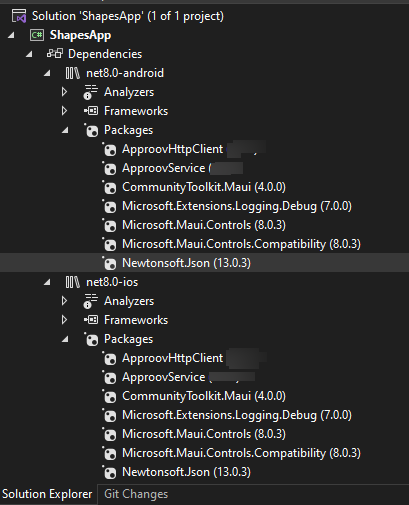
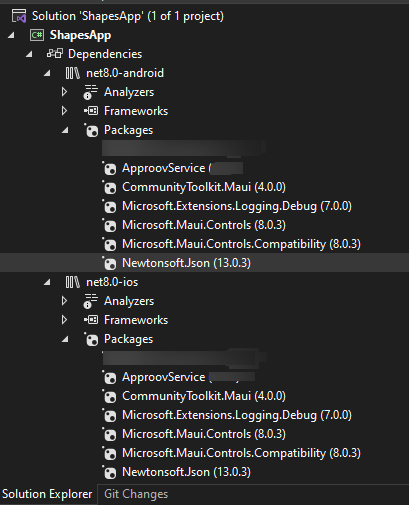
Update package instructions to support NET7 also

Changed region(s): [[0.2347, 0.2673, 0.5575, 0.3267], [0.2347, 0.6832, 0.5575, 0.7426]]

diff --git a/SHAPES-EXAMPLE.md b/SHAPES-EXAMPLE.md
@@ -1,6 +1,6 @@
 # SHAPES EXAMPLE
 
-This quickstart is written specifically for native iOS and Android apps that are written in C# for making the API calls that you wish to protect with Approov. This quickstart provides a step-by-step example of integrating Approov into an app using a simple `Shapes` example that shows a geometric shape based on a request to an API backend that can be protected with Approov.
+This quickstart is written specifically for iOS and Android apps using .NET MAUI for making the API calls that you wish to protect with Approov. This quickstart provides a step-by-step example of integrating Approov into an app using a simple `Shapes` example that shows a geometric shape based on a request to an API backend that can be protected with Approov. Please note that this example uses NET8 but the `ApproovService` package as of version `3.2.0` supports also NET7.
 
 ## WHAT YOU WILL NEED
 * Access to a trial or paid Approov account
@@ -9,7 +9,7 @@ This quickstart is written specifically for native iOS and Android apps that are
 * Mac OS machine with a recent version of Xcode and Mac OS to be accessed from Visual Studio using the `Pair To Mac` function if building iOS ShapesApp
 * The contents of the folder containing this README
 * An Apple mobile device with iOS 11 or higher or an Android 5.0+ device. Alternatively, iOS simulator or Android emulator would suffice
-* Nuget packages supporting the native Approov SDK: `ApproovService` version `3.2.0`, `ApproovHttpClient` version `3.2.0`
+* Nuget package supporting the native Approov SDK: `ApproovService` version `3.2.0`
 
 ## RUNNING THE SHAPES APP WITHOUT APPROOV
 
@@ -39,7 +39,7 @@ This contacts `https://shapes.approov.io/v1/shapes` to get the name of a random 
 
 ## ADD THE APPROOV SDK
 
-The Approov SDK is available as a NuGet package in the default `nuget.org` repository and is conveniently named `ApproovService`. Select `Project` and `Manage NuGet Packages...` then select `Browse` and search for the `ApproovHttpClient` package. Additionally, you might need to remove any reference to `System.Net.Http` package from the `using` directive, since a custom subclass, `ApproovHttpClient` implements its functionality and is part of the `ApproovService` package.
+The Approov SDK is available as a NuGet package in the default `nuget.org` repository and is conveniently named `ApproovService`. Select `Project` and `Manage NuGet Packages...` then select `Browse` and search for the `ApproovService` package. Additionally, you might need to remove any reference to `System.Net.Http` package from the `using` directive, since a custom subclass, `ApproovHttpClient` implements its functionality and is part of the `ApproovService` package.
 
 Your project structure should now look like this:
 
